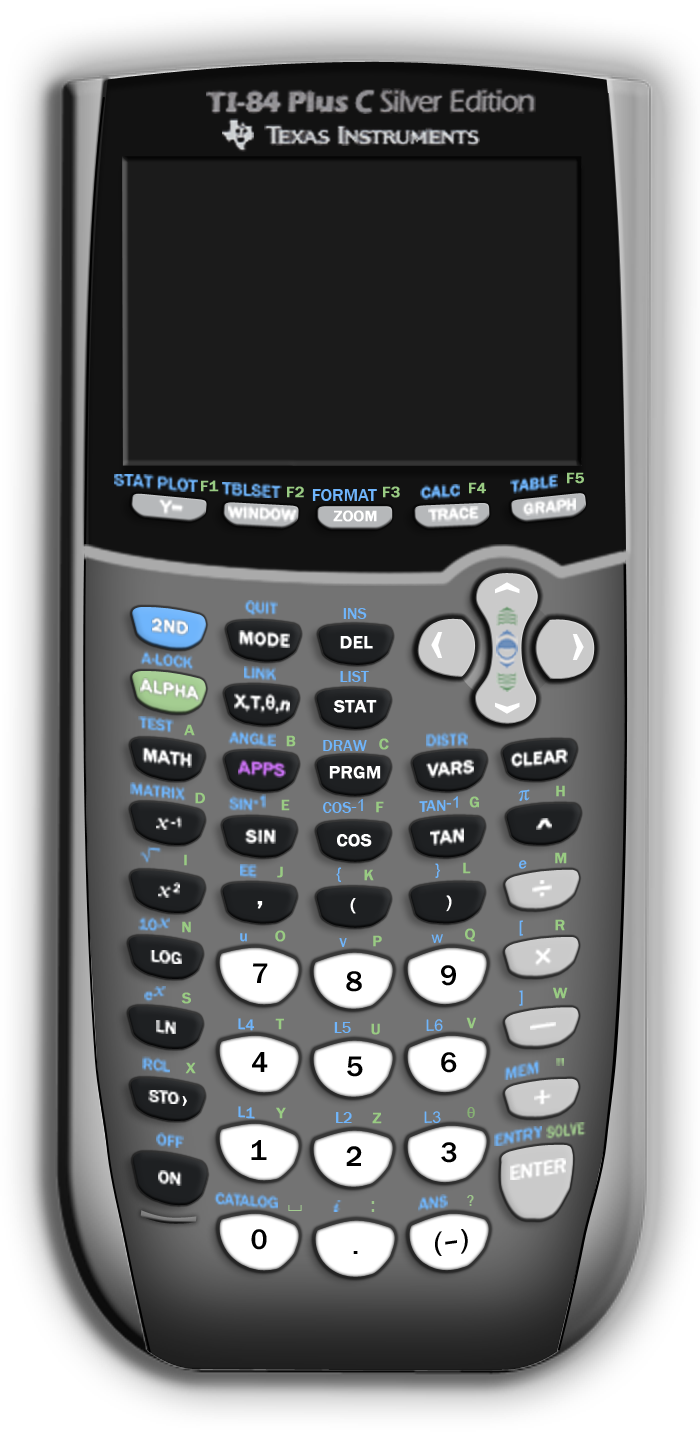
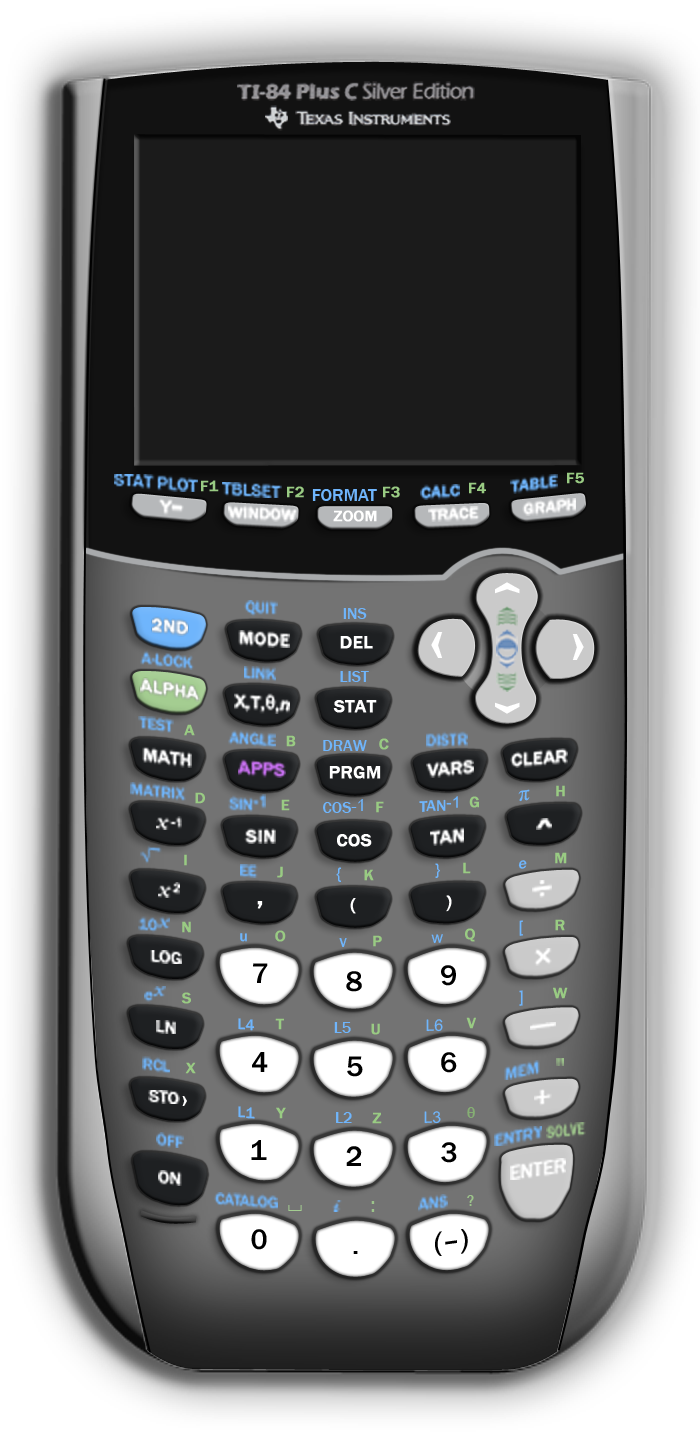
Fixed detached lcd sizing Fixed race condition sending ROM Improved lcd scaling for upscaled skins
git-svn-id: https://wabbit.svn.codeplex.com/svn@89215 e17a0e51-4ae3-4d35-97c3-1a29b211df97

Changed region(s): [[0.3, 0.031, 0.78, 0.1241], [0.12, 0.3724, 0.9, 0.4034], [0.15, 0.0931, 0.21, 0.3414]]

diff --git a/WabbitStudio/Source/Wabbitemu/gui/guisize.c b/WabbitStudio/Source/Wabbitemu/gui/guisize.c
@@ -42,7 +42,7 @@ LRESULT HandleSizeMessage(HWND hwnd, HWND hwndLcd, LPCALC lpCalc, BOOL skinEnabl
 	CopyRect(&rc, &lpCalc->rectLCD);
 
 	UINT default_scale = GetDefaultKeymapScale(lpCalc->model);
-	UINT scale = skinEnabled ? default_scale : lpCalc->scale;
+	UINT scale = skinEnabled ? default_scale : max(lpCalc->scale, default_scale);
 	int silentMode = silent_mode ? SWP_HIDEWINDOW : 0;
 	UINT lcdWidth, lcdHeight;
 	if (skinEnabled) {
@@ -95,7 +95,7 @@ LRESULT HandleSizeMessage(HWND hwnd, HWND hwndLcd, LPCALC lpCalc, BOOL skinEnabl
 }
 
 // TODO: better names and types
-LRESULT HandleLCDSizingMessage(HWND hwnd, LPCALC lpCalc, WPARAM wParam, RECT *prc) {
+LRESULT HandleLCDSizingMessage(HWND hwnd, LPCALC lpCalc, WPARAM wParam, RECT *prc, LONG lcdWidth) {
 	LCDBase_t *lcd = lpCalc->cpu.pio.lcd;
 	LONG ClientAdjustWidth, ClientAdjustHeight;
 	LONG AdjustWidth, AdjustHeight;
@@ -128,10 +128,10 @@ LRESULT HandleLCDSizingMessage(HWND hwnd, LPCALC lpCalc, WPARAM wParam, RECT *pr
 	case WMSZ_BOTTOMLEFT:
 	case WMSZ_LEFT:
 	case WMSZ_TOPLEFT:
-		prc->left -= lcd->width / 4;
+		prc->left -= lcdWidth / 4;
 		break;
 	default:
-		prc->right += lcd->width / 4;
+		prc->right += lcdWidth / 4;
 		break;
 	}
 
@@ -148,20 +148,20 @@ LRESULT HandleLCDSizingMessage(HWND hwnd, LPCALC lpCalc, WPARAM wParam, RECT *pr
 
 
 	// Make sure the width is a nice clean proportional sizing
-	AdjustWidth = (prc->right - prc->left - ClientAdjustWidth) % lcd->width;
+	AdjustWidth = (prc->right - prc->left - ClientAdjustWidth) % lcdWidth;
 	AdjustHeight = (prc->bottom - prc->top - ClientAdjustHeight) % lcd->height;
 
-	int cx_mult = (prc->right - prc->left - ClientAdjustWidth) / lcd->width;
+	int cx_mult = (prc->right - prc->left - ClientAdjustWidth) / lcdWidth;
 	int cy_mult = (prc->bottom - prc->top - ClientAdjustHeight) / lcd->height;
 
 	int min_scale = GetDefaultKeymapScale(lpCalc->model);
 	while (cx_mult < min_scale || cy_mult < min_scale) {
-		if (cx_mult < min_scale) { cx_mult++; AdjustWidth -= lcd->width; }
+		if (cx_mult < min_scale) { cx_mult++; AdjustWidth -= lcdWidth; }
 		if (cy_mult < min_scale) { cy_mult++; AdjustHeight -= lcd->height; }
 	}
 
 	if (cx_mult > cy_mult) {
-		AdjustWidth += (cx_mult - cy_mult) * lcd->width;
+		AdjustWidth += (cx_mult - cy_mult) * lcdWidth;
 	} else if (cy_mult > cx_mult) {
 		AdjustHeight += (cy_mult - cx_mult) * lcd->height;
 	}

diff --git a/WabbitStudio/Source/Wabbitemu/gui/guidetached.c b/WabbitStudio/Source/Wabbitemu/gui/guidetached.c
@@ -9,10 +9,10 @@
 extern HINSTANCE g_hInst;
 
 LRESULT CALLBACK DetachedProc(HWND hwnd, UINT msg, WPARAM wParam, LPARAM lParam) {
-	static LPCALC lpCalc;
 	switch (msg) {
 	case WM_CREATE: {
-		lpCalc = (LPCALC)((LPCREATESTRUCT)lParam)->lpCreateParams;
+		LPCALC lpCalc = (LPCALC)((LPCREATESTRUCT)lParam)->lpCreateParams;
+		SetWindowLongPtr(hwnd, GWLP_USERDATA, (LONG_PTR)lpCalc);
 
 		int lcdWidth =  lpCalc->cpu.pio.lcd->display_width;
 		int lcdHeight = lpCalc->cpu.pio.lcd->height;
@@ -25,26 +25,35 @@ LRESULT CALLBACK DetachedProc(HWND hwnd, UINT msg, WPARAM wParam, LPARAM lParam)
 			hwnd, NULL, g_hInst, (LPVOID *)lpCalc);
 		return FALSE;
 	}
-		case WM_DESTROY:
-			lpCalc->hwndDetachedLCD = NULL;
-			lpCalc->hwndDetachedFrame = NULL;
-			return FALSE;
-		case WM_KEYDOWN:
-			HandleKeyDown(lpCalc, wParam);
-			return FALSE;
-		case WM_KEYUP:
-			if (wParam) {
-				HandleKeyUp(lpCalc, wParam);
-			}
-			return FALSE;
-		case WM_COMMAND:
-			return FALSE;
-		case WM_SIZING: {
-			return HandleLCDSizingMessage(hwnd, lpCalc, wParam, (RECT *)lParam);
+	case WM_DESTROY: {
+		LPCALC lpCalc = (LPCALC)GetWindowLongPtr(hwnd, GWLP_USERDATA);
+		lpCalc->hwndDetachedLCD = NULL;
+		lpCalc->hwndDetachedFrame = NULL;
+		return FALSE;
+	}
+	case WM_KEYDOWN: {
+		LPCALC lpCalc = (LPCALC)GetWindowLongPtr(hwnd, GWLP_USERDATA);
+		HandleKeyDown(lpCalc, wParam);
+		return FALSE;
+	}
+	case WM_KEYUP: {
+		if (wParam) {
+			LPCALC lpCalc = (LPCALC)GetWindowLongPtr(hwnd, GWLP_USERDATA);
+			HandleKeyUp(lpCalc, wParam);
 		}
-		case WM_SIZE: {
-			return HandleSizeMessage(hwnd, lpCalc->hwndDetachedLCD, lpCalc, FALSE);
-		}
+		return FALSE;
+	}
+	case WM_COMMAND:
+		return FALSE;
+	case WM_SIZING: {
+		LPCALC lpCalc = (LPCALC)GetWindowLongPtr(hwnd, GWLP_USERDATA);
+		LCDBase_t *lcd = lpCalc->cpu.pio.lcd;
+		return HandleLCDSizingMessage(hwnd, lpCalc, wParam, (RECT *)lParam, lcd->display_width);
+	}
+	case WM_SIZE: {
+		LPCALC lpCalc = (LPCALC)GetWindowLongPtr(hwnd, GWLP_USERDATA);
+		return HandleSizeMessage(hwnd, lpCalc->hwndDetachedLCD, lpCalc, FALSE);
+	}
 	}
 	return DefWindowProc(hwnd, msg, wParam, lParam);
 }

diff --git a/WabbitStudio/Source/Wabbitemu/gui/guilcd.c b/WabbitStudio/Source/Wabbitemu/gui/guilcd.c
@@ -352,15 +352,32 @@ void PaintLCD(HWND hwnd, HDC hdcDest) {
 	} else {
 		BOOL lcd_scaled = (rc.right - rc.left) % lcd->display_width;
 		screen = lcd->image(lcd);
+
 		if (lcd_scaled) {
+			LONG clientWidth = rc.right - rc.left;
+			LONG clientHeight = rc.bottom - rc.top;
+			LONG clientScaleWidth = max(1, clientWidth / lcd->display_width) * lcd->display_width;
+			LONG clientScaleHeight = max(1, clientHeight / lcd->height) * lcd->height;
+
+			Graphics graphics(hdc);
 			Bitmap lcdBitmap(info, screen);
-			Graphics g(hdc);
-			g.SetInterpolationMode(InterpolationModeLowQuality);
-			Rect rect(rc.left, rc.top, rc.right - rc.left + 1,  rc.bottom - rc.top + 1);
-			g.DrawImage(&lcdBitmap, rect, 0, 0, lcd->display_width, lcd->height, UnitPixel);
+			Bitmap scaledBitmap((INT)clientScaleWidth, (INT)clientScaleHeight, &graphics);
+			Bitmap *bitmap = &lcdBitmap;
+			if (clientScaleWidth != lcd->display_width && clientScaleHeight != lcd->height) {
+				Graphics scaledGraphics(&scaledBitmap);
+				scaledGraphics.SetInterpolationMode(InterpolationModeNearestNeighbor);
+				// +1 because otherwise there is a black line at max width and max height
+				Rect scaleRect(rc.left, rc.top, clientScaleWidth + 1, clientScaleHeight + 1);
+				scaledGraphics.DrawImage(&lcdBitmap, scaleRect, 0, 0, lcd->display_width, lcd->height, UnitPixel);
+				bitmap = &scaledBitmap;
+			}
+
+			graphics.SetInterpolationMode(InterpolationModeLowQuality);
+			Rect rect(rc.left, rc.top, clientWidth + 1, clientHeight + 1);
+			graphics.DrawImage(bitmap, rect, 0, 0, clientScaleWidth, clientScaleHeight, UnitPixel);
 			rect.Width--;
 			rect.Height--;
-			g.SetClip(rect);
+			graphics.SetClip(rect);
 		} else {
 			SetStretchBltMode(hdc, BLACKONWHITE);
 			if (StretchDIBits(hdc,
@@ -369,9 +386,10 @@ void PaintLCD(HWND hwnd, HDC hdcDest) {
 							screen,
 							info,
 							DIB_RGB_COLORS,
-							SRCCOPY) == 0) {
-							_tprintf_s(_T("error in SetDIBitsToDevice\n"));
-						}
+							SRCCOPY) == 0)
+			{
+				_tprintf_s(_T("error in SetDIBitsToDevice\n"));
+			}
 		}
 
 		BLENDFUNCTION bf;

diff --git a/WabbitStudio/Source/Wabbitemu/utilities/sendfileswindows.cpp b/WabbitStudio/Source/Wabbitemu/utilities/sendfileswindows.cpp
@@ -21,6 +21,7 @@ public:
 	
 	// Download progress
 	int iCurrentFile;
+	BOOL isRom;
 	ULONG ulBytesSent;
 	ULONG ulFileSize;
 	
@@ -107,8 +108,15 @@ static DWORD CALLBACK SendFileToCalcThread(LPVOID lpParam) {
 
 	lpsi->Error = LERR_SUCCESS;
 	for (lpsi->iCurrentFile = 0; lpsi->iCurrentFile < lpsi->FileList->size(); lpsi->iCurrentFile++)	{
-		SendMessage(lpsi->hwndDlg, WM_USER, 0, NULL);
-		lpsi->Error = SendFile(lpCalc, lpsi->FileList->at(lpsi->iCurrentFile).c_str(), lpsi->DestinationList->at(lpsi->iCurrentFile));
+		const TCHAR *filename = lpsi->FileList->at(lpsi->iCurrentFile).c_str();
+		TIFILE_t *var = importvar(filename, TRUE);
+		if (var != NULL && var->type != ROM_TYPE) {
+			SendMessage(lpsi->hwndDlg, WM_USER, 0, NULL);
+		} else {
+			lpsi->isRom = true;
+		}
+
+		lpsi->Error = SendFile(lpCalc, filename, lpsi->DestinationList->at(lpsi->iCurrentFile));
 		if (lpsi->Error != LERR_SUCCESS) {
 			if (MessageBox(lpsi->hwndDlg, g_szLinkErrorDescriptions[lpsi->Error], _T("Wabbitemu"), MB_OKCANCEL | MB_ICONERROR) == IDCANCEL) {
 				break;
@@ -217,6 +225,7 @@ static LINK_ERR SendFile(const LPCALC lpCalc, LPCTSTR lpszFileName, SEND_FLAG De
 					//81 for now
 					break;
 				}
+
 				lpCalc->cpu.pio.link->vlink_size = var->length;
 				lpCalc->cpu.pio.link->vlink_send = 0;
 				BOOL running_backup = lpCalc->running;
@@ -471,9 +480,10 @@ static LRESULT CALLBACK SendProc(HWND hwnd, UINT Message, WPARAM wParam, LPARAM 
 	case WM_USER:
 		{
 			LPCALC lpCalc = (LPCALC) GetWindowLongPtr(hwnd, GWLP_USERDATA);
+			LPSENDINFO lpsi = g_SendInfo[lpCalc];
 			HWND hwndProgress = GetDlgItem(hwnd, 1);
 			// Update the progress bar
-			if (lpCalc->cpu.pio.link == NULL)
+			if (lpsi->isRom || lpCalc->cpu.pio.link == NULL)
 			{
 				SendMessage(hwndProgress, PBM_SETRANGE, 0, MAKELPARAM(0, 1));
 				SendMessage(hwndProgress, PBM_SETPOS, 1, 0);

diff --git a/WabbitStudio/Source/Wabbitemu/gui/guisize.h b/WabbitStudio/Source/Wabbitemu/gui/guisize.h
@@ -6,7 +6,7 @@
 unsigned int GetDefaultKeymapScale(int model);
 LRESULT HandleMoveMessage(HWND hwnd, LPCALC lpCalc);
 LRESULT HandleSizeMessage(HWND hwnd, HWND hwndLcd, LPCALC lpCalc, BOOL skinEnabled);
-LRESULT HandleLCDSizingMessage(HWND hwnd, LPCALC lpCalc, WPARAM wParam, RECT *prc);
+LRESULT HandleLCDSizingMessage(HWND hwnd, LPCALC lpCalc, WPARAM wParam, RECT *prc, LONG lcdWidth);
 LRESULT HandleSkinSizingMessage(HWND hwnd, LPCALC lpCalc, WPARAM wParam, RECT *prc);
 LRESULT GetMinMaxInfo(HWND hwnd, LPCALC lpCalc, MINMAXINFO *info);
 

diff --git a/WabbitStudio/Source/Wabbitemu/gui/gui.c b/WabbitStudio/Source/Wabbitemu/gui/gui.c
@@ -1524,7 +1524,7 @@ LRESULT CALLBACK WndProc(HWND hwnd, UINT Message, WPARAM wParam, LPARAM lParam) 
 		if (lpCalc->bSkinEnabled) {
 			return HandleSkinSizingMessage(hwnd, lpCalc, wParam, (RECT *)lParam);
 		}
-		return HandleLCDSizingMessage(hwnd, lpCalc, wParam, (RECT *) lParam);
+		return HandleLCDSizingMessage(hwnd, lpCalc, wParam, (RECT *) lParam, lpCalc->cpu.pio.lcd->width);
 	case WM_SIZE:
 		return HandleSizeMessage(hwnd, lpCalc->hwndLCD, lpCalc, lpCalc->bSkinEnabled);
 	case WM_MOVE: {

diff --git a/WabbitStudio/Source/Wabbitemu/gui/registry.c b/WabbitStudio/Source/Wabbitemu/gui/registry.c
@@ -13,7 +13,7 @@ extern keyprog_t defaultkeysti86[256];
 extern keyprog_t defaultkeysti83[256];
 const TCHAR *appName = _T("Wabbitemu");
 const TCHAR *debugName = _T("Debug");
-const TCHAR *verString = _T("1.8.2.25");
+const TCHAR *verString = _T("1.8.2.26");
 
 static HKEY hkeyTarget = NULL;
 
